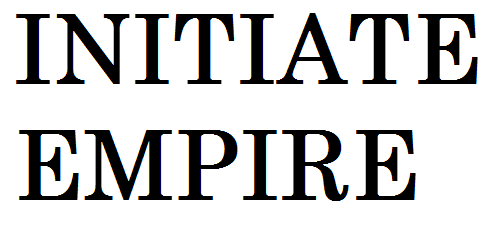
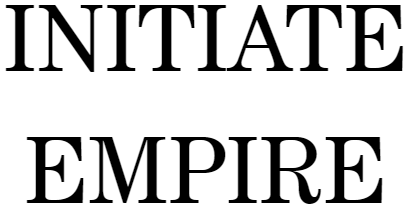
Added a new image in assests, repositioned it, got the width and height of the screen to poisiton it. Not done positioning

diff --git a/core/src/com/mygdx/game/MainMenuScreen.java b/core/src/com/mygdx/game/MainMenuScreen.java
@@ -14,7 +14,10 @@ import com.badlogic.gdx.graphics.g2d.SpriteBatch;
 public class MainMenuScreen extends Game implements Screen {
     SpriteBatch batch;
     Texture img;
+    int width = Gdx.app.getGraphics().getWidth();
+    int height = Gdx.app.getGraphics().getHeight();
     public MainMenuScreen(Game projectOdyssey) {
+
         create();
         render();
     }
@@ -30,10 +33,11 @@ public class MainMenuScreen extends Game implements Screen {
 
     @Override
     public void render () {
+
         Gdx.gl.glClearColor(1, 1, 1, 1); //White background color
         Gdx.gl.glClear(GL20.GL_COLOR_BUFFER_BIT);
         batch.begin();
-        batch.draw(img, 300, 300, 150, 100, 300, 200, 1, 1, 90, 1, 1, 300, 200, false, false); //https://stackoverflow.com/questions/24748350/libgdx-rotate-a-texture-when-drawing-it-with-spritebatch
+        batch.draw(img, (width/2), (height/2), (412/2), (210/2), 412, 210, 1, 1, 90, 1, 1, 600, 300, false, false); //https://stackoverflow.com/questions/24748350/libgdx-rotate-a-texture-when-drawing-it-with-spritebatch
         batch.end();
     }
 
